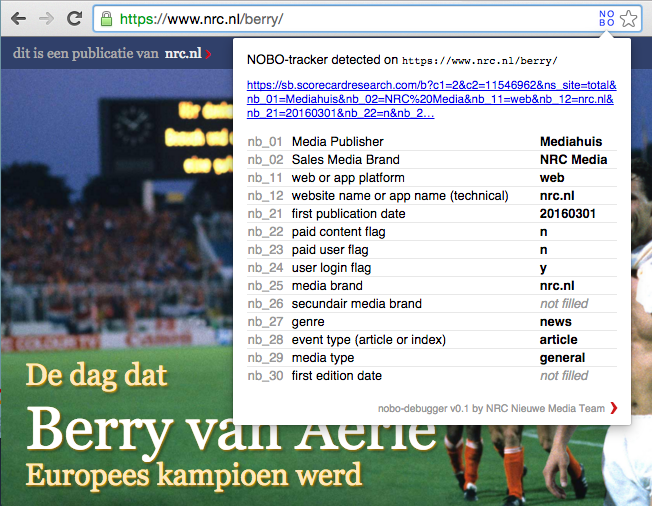
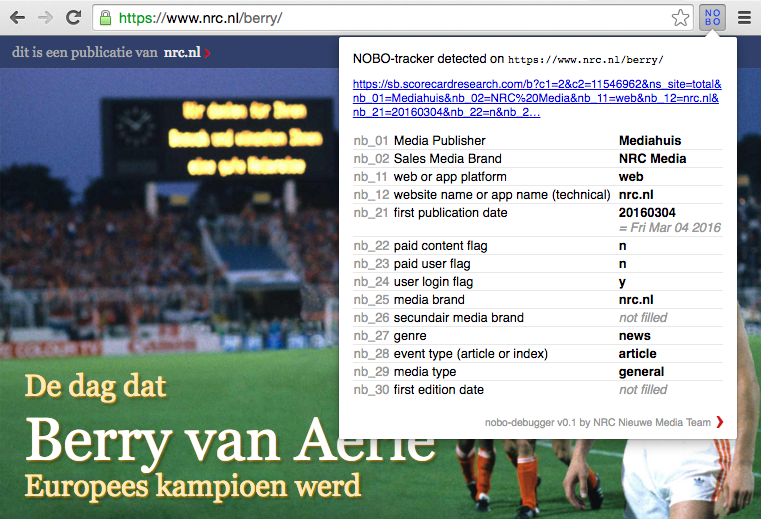
update readme and screenshot for new Chrome
extension icons are now always shown in toolbar instead of in address bar

diff --git a/README.md b/README.md
@@ -11,7 +11,7 @@ Browser extension to show comScore/NOBO tracker request values
 - Select `nobo-debugger-chrome-ext` dir
 
 ## Usage
-After installation, any webpage that does a NOBO-request should show a blue 'NOBO' icon at the end of the Address bar. Clicking it will reveal a popup showing all `nb_*` values sent to NOBO for the current page.
+After installation, any webpage that does a NOBO-request should show a blue NOBO icon in Chrome's toolbar. Clicking it will reveal a popup showing all `nb_*` values sent to NOBO for the current page.
 
 ## Limitations
 This version is currently limited to showing only one NOBO-request per tab; be advised that unpredicable results may happen when a webpage does a secondary request in the same tab, for example when an article is opened in a popup/overlay/iframe.
